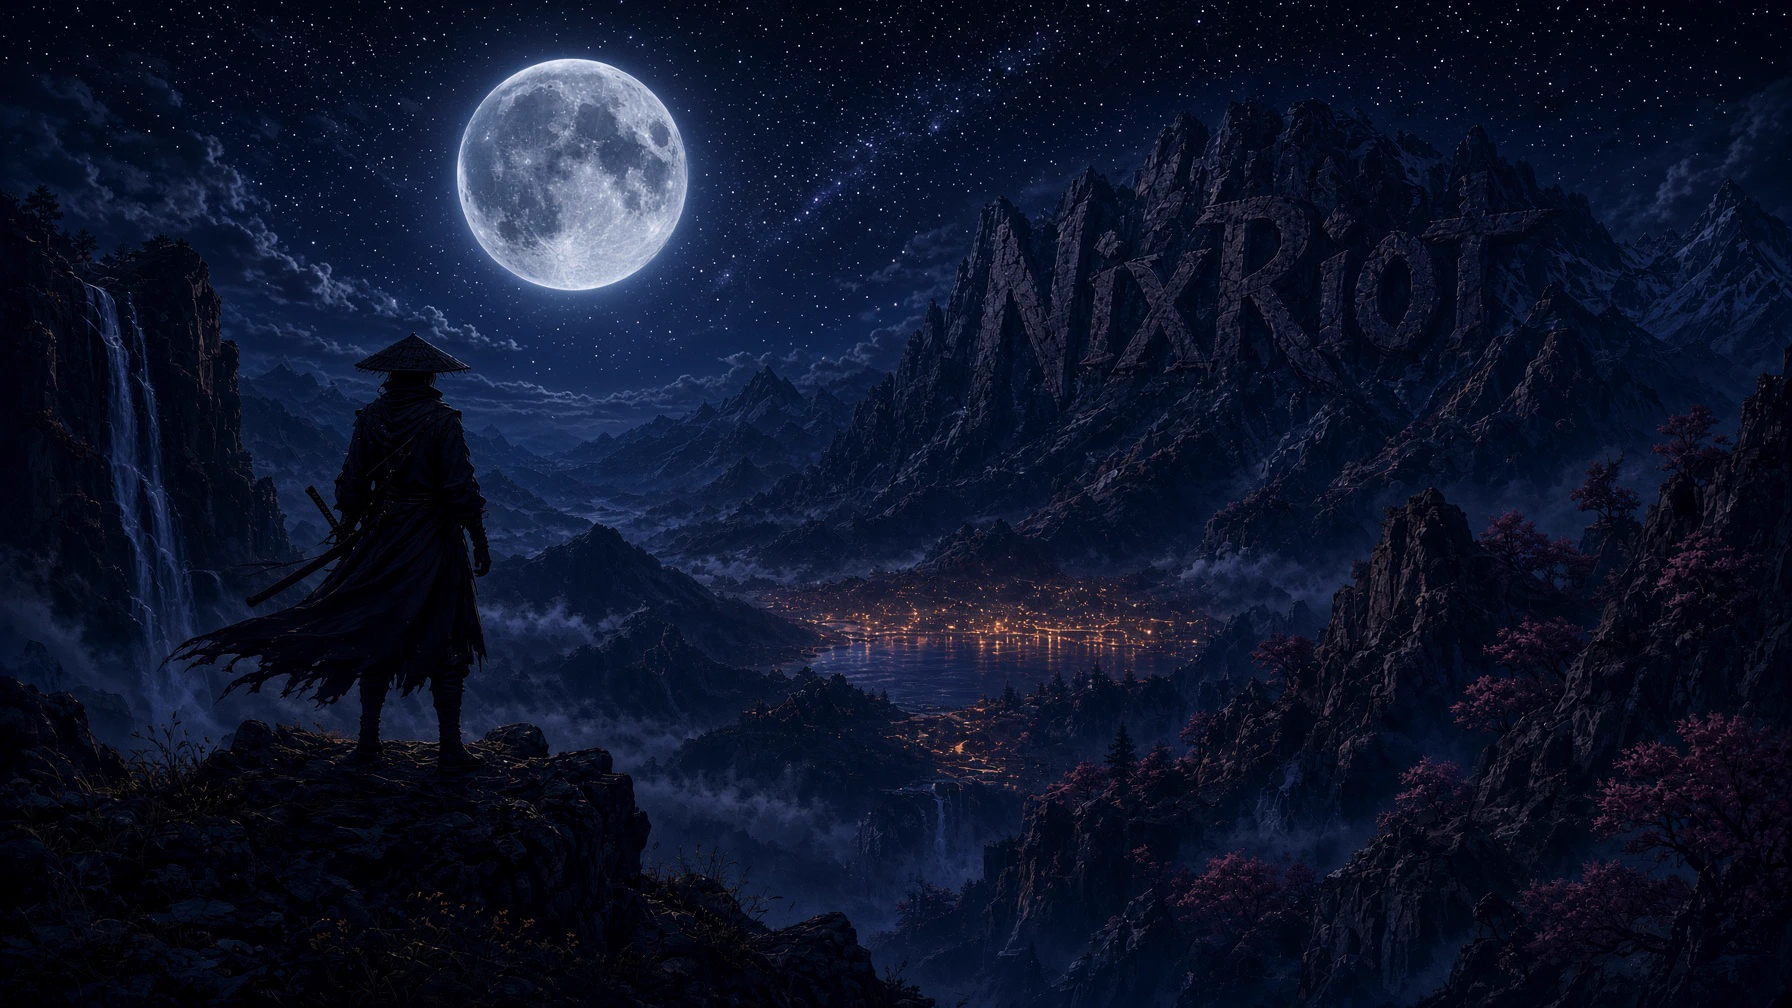
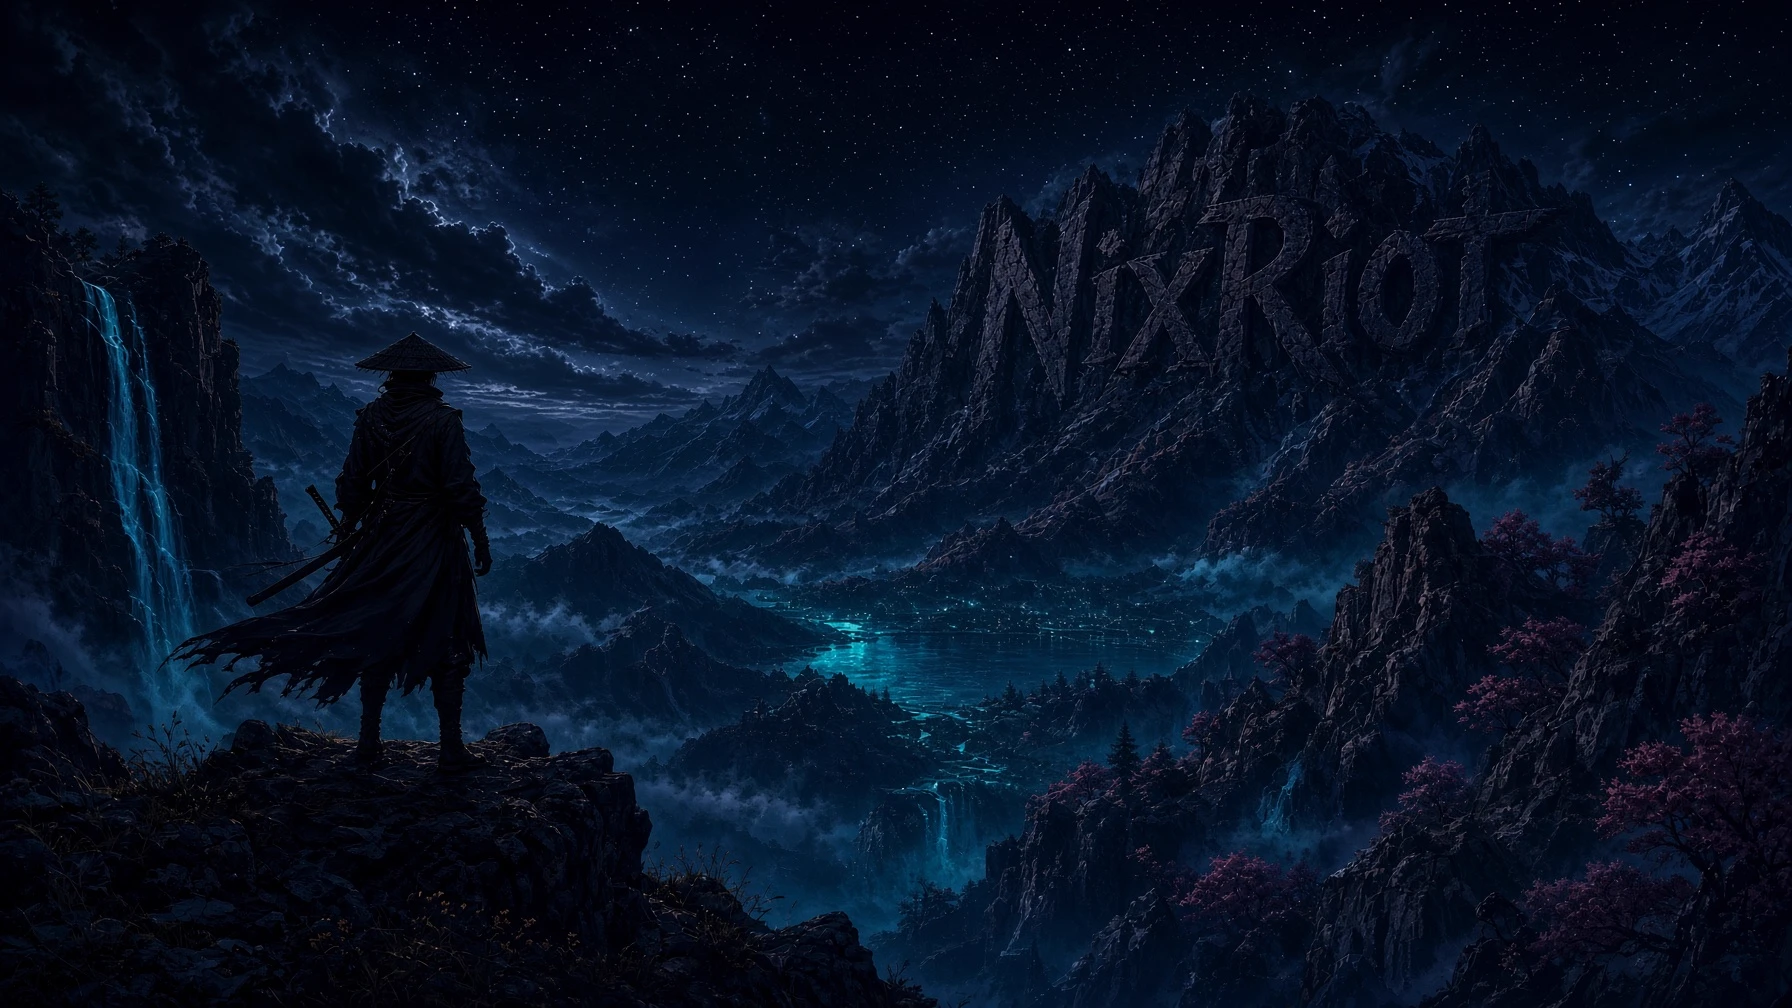
Release 1.10

diff --git a/panacea/panacea/SetSystem.qml b/panacea/panacea/SetSystem.qml
@@ -29,6 +29,12 @@ ColumnLayout {
     property real diskTotal: 0
     property real selfMb: 0
 
+    function checkedLabel() {
+        if (!page.sys.updCheckedAt) return "";
+        return page.sys.tr("checked ")
+             + new Date(page.sys.updCheckedAt).toLocaleTimeString(Qt.locale(), "HH:mm");
+    }
+
     function stepName(st) {
         return st === "download"      ? page.sys.tr("downloading")
              : st === "selfupdate"    ? page.sys.tr("updating the updater")
@@ -195,12 +201,12 @@ ColumnLayout {
                     Layout.fillWidth: true
                     text: page.sys.updBusy
                           ? page.sys.tr("Updating…") + " " + page.stepName(page.sys.updStep)
-                          : page.sys.updChecking ? page.sys.tr("Checking\\u2026")
+                          : page.sys.updChecking ? page.sys.tr("Checking…")
                           : page.sys.updateAvailable ? page.sys.tr("A new version is available")
                           : page.sys.updStatus === "current" ? page.sys.tr("You are on the latest version")
                           : page.sys.updStatus === "offline" ? page.sys.tr("Cannot reach GitHub")
                           : page.sys.updStatus === "unknown" ? page.sys.tr("Version unknown: this was not installed by the installer")
-                          : page.sys.tr("Checking\\u2026")
+                          : page.sys.tr("Checking…")
                     color: page.sys.updateAvailable ? page.sys.colOn : page.sys.colFg
                     wrapMode: Text.WordWrap
                     font { family: page.sys.fontBody; pixelSize: page.sys.fontSize - 1 }
@@ -212,6 +218,8 @@ ColumnLayout {
                         : page.sys.updateAvailable ? page.sys.updSubject
                         : "NixRiot " + (page.sys.updCurrent.length
                                         ? page.sys.updCurrent : page.sys.tr("version unknown"))
+                          + (page.sys.updStatus === "current" && page.sys.updCheckedAt
+                             ? " · " + page.checkedLabel() : "")
                     color: page.sys.updError.length ? page.sys.colCrit : page.sys.colMuted
                     wrapMode: Text.WordWrap
                     font { family: page.sys.fontBody; pixelSize: page.sys.fontSize - 4 }
@@ -252,8 +260,10 @@ ColumnLayout {
                     }
 
                     Text {
-                        text: page.sys.updChecking ? page.sys.tr("Checking\\u2026")
-                                                   : page.sys.tr("Check")
+                        text: page.sys.updChecking ? page.sys.tr("Checking…")
+                                                   : page.sys.updCheckedAt
+                                                     ? page.sys.tr("Check again")
+                                                     : page.sys.tr("Check")
                         color: page.sys.updChecking ? page.sys.colFg : page.sys.colMuted
                         font { family: page.sys.fontBody; pixelSize: page.sys.fontSize - 3 }
                     }
@@ -283,7 +293,7 @@ ColumnLayout {
 
                 Text {
                     anchors.centerIn: parent
-                    text: page.sys.updBusy ? page.sys.tr("Working…") : page.sys.tr("Refresh")
+                    text: page.sys.updBusy ? page.sys.tr("Working…") : page.sys.tr("Update")
                     color: page.sys.colFg
                     font { family: page.sys.fontBody; pixelSize: page.sys.fontSize - 3; bold: true }
                 }

diff --git a/panacea/panacea/shell.qml b/panacea/panacea/shell.qml
@@ -912,6 +912,7 @@ PanelWindow {
     property string updStep: ""
     property string updError: ""
     property string updNotified: ""
+    property real   updCheckedAt: 0
 
     readonly property bool updateAvailable: updStatus === "behind"
 
@@ -1034,6 +1035,7 @@ PanelWindow {
             else if (k === "version") root.updCurrent = v;
         }
         if (!done) return;
+        root.updCheckedAt = Date.now();
         if (root.updStatus === "behind" && root.updLatest.length
                 && root.updLatest !== root.cfg.updNotifiedVer) {
             root.updNotified = root.updLatest;
@@ -5847,6 +5849,53 @@ PanelWindow {
             }
         }
 
+        Rectangle {
+            id: updBtn
+            parent: (root.cfg.pillKeepVisible && root.expanded && !root.settingsMode) ? detachedPanel : capsule
+            anchors.top: parent.top
+            anchors.topMargin: 12
+            anchors.left: islandTabs.right
+            anchors.leftMargin: 8
+            height: 34
+            radius: 17
+            width: updRow.implicitWidth + (root.updateAvailable ? 26 : 14)
+            color: root.updateAvailable ? root.colFg
+                 : updHover.containsMouse ? Qt.rgba(1, 1, 1, 0.10) : "transparent"
+            Behavior on color { ColorAnimation { duration: root.animFast } }
+            visible: root.expanded && !root.settingsMode
+                     && (root.page === "main" || root.page === "chat" || root.page === "vpn")
+
+            Row {
+                id: updRow
+                anchors.centerIn: parent
+                spacing: 6
+                Text {
+                    anchors.verticalCenter: parent.verticalCenter
+                    text: String.fromCodePoint(root.updateAvailable ? 0xF019
+                                               : root.updStatus === "" || root.updChecking ? 0xF017
+                                               : root.updStatus === "current" ? 0xF00C : 0xF071)
+                    color: root.updateAvailable ? root.colBg
+                         : root.updStatus === "current" ? root.colMuted : root.colFg
+                    font { family: root.fontFam; pixelSize: 12 }
+                }
+                Text {
+                    anchors.verticalCenter: parent.verticalCenter
+                    visible: root.updateAvailable
+                    text: root.tr("Update")
+                    color: root.colBg
+                    font { family: root.fontBody; pixelSize: 12; bold: true }
+                }
+            }
+
+            MouseArea {
+                id: updHover
+                anchors.fill: parent
+                hoverEnabled: true
+                cursorShape: Qt.PointingHandCursor
+                onClicked: root.openSettingsAt("system")
+            }
+        }
+
         Item {
             id: pillTray
             parent: (root.cfg.pillKeepVisible && root.expanded && !root.settingsMode) ? detachedPanel : capsule
@@ -6021,7 +6070,6 @@ PanelWindow {
             }
             HeaderBtn {
                 glyph: String.fromCodePoint(0xF0425)
-                glyphColor: root.colCrit
                 onAct: root.togglePage("power")
             }
         }

diff --git a/panacea/panacea/Translations.qml b/panacea/panacea/Translations.qml
@@ -83,7 +83,7 @@ QtObject {
         "Charging, Bluetooth, screenshots, voice input": "Şarj, Bluetooth bağlantısı, ekran görüntüleri ve sesli giriş",
         "Chat": "Sohbet",
         "Check": "Kontrol et",
-        "Checking\\u2026": "Kontrol ediliyor…",
+        "Checking…": "Kontrol ediliyor…",
         "Choose VPN": "VPN seç",
         "Choose a VPN profile in the island to save it for quick connection.": "Hızlı bağlantı için adada bir VPN profili seçin.",
         "Choose a client or profile. Your selection is saved without connecting.": "Bir istemci veya profil seçin. Bağlanmadan kaydedilir.",
@@ -168,7 +168,7 @@ QtObject {
         "Do not disturb is on": "Rahatsız etmeyin modu açık",
         "Documents": "Belgeler",
         "Don't remove the drive. Left: ": "Sürücüyü çıkarmayın. Kalan: ",
-        "Don\\u0027t save": "Kaydetme",
+        "Don't save": "Kaydetme",
         "Done": "Hazır",
         "Downloads": "İndirilenler",
         "Drag the island with the mouse": "Adayı fareyle taşı",
@@ -212,7 +212,7 @@ QtObject {
         "Files over 4 GB don't fit on FAT32: ": "4 GB üzeri dosyalar FAT32'ye sığmaz: ",
         "Files: ": "Dosyalar: ",
         "Finish": "Bitir",
-        "Float \\u0026 centre": "Ortada yüzen pencere",
+        "Float & centre": "Ortada yüzen pencere",
         "Floating overlay mode": "Yüzen katman modu",
         "Floating window": "Yüzen pencere",
         "Focus by direction": "Yöne göre odakla",
@@ -398,7 +398,7 @@ QtObject {
         "Panacea has been updated": "Panacea güncellendi",
         "Panel layout": "Panel düzeni",
         "Password": "Parola",
-        "Password for \\u00ab": "« için parola",
+        "Password for «": "« için parola",
         "Password manager": "Parola yöneticisi",
         "Passwords": "Parolalar",
         "Paste": "Yapıştır",

diff --git a/panacea/panacea/SetKeys.qml b/panacea/panacea/SetKeys.qml
@@ -472,7 +472,7 @@ ColumnLayout {
             BindRow { bindId: "closeWindow"; label: page.sys.tr("Close window") }
             BindRow { bindId: "fullscreen";  label: page.sys.tr("Fullscreen") }
             BindRow { bindId: "floatToggle"; label: page.sys.tr("Floating window") }
-            BindRow { bindId: "floatCenter"; label: page.sys.tr("Float \\u0026 centre") }
+            BindRow { bindId: "floatCenter"; label: page.sys.tr("Float & centre") }
             BindRow { bindId: "toggleSplit"; label: page.sys.tr("Toggle split") }
             BindRow { bindId: "closeMouse"; label: page.sys.tr("Close with middle click"); manual: true }
             BindRow { bindId: "dragWindow"; label: page.sys.tr("Drag window"); manual: true }

diff --git a/panacea/panacea/ControlsView.qml b/panacea/panacea/ControlsView.qml
@@ -1989,7 +1989,7 @@ Item {
                     TextField {
                         id: pwField
                         Layout.fillWidth: true
-                        placeholderText: view.sys.tr("Password for \\u00ab") + wifiPage.passwordFor + "»"
+                        placeholderText: view.sys.tr("Password for «") + wifiPage.passwordFor + "»"
                         echoMode: TextInput.Password
                         color: view.sys.colFg
                         placeholderTextColor: view.sys.colMuted

diff --git a/panacea/panacea/VaultSaveView.qml b/panacea/panacea/VaultSaveView.qml
@@ -184,7 +184,7 @@ FocusScope {
                 color: noMa.containsMouse ? Qt.rgba(1, 1, 1, 0.13) : Qt.rgba(1, 1, 1, 0.06)
                 Text {
                     anchors.centerIn: parent
-                    text: view.sys.tr("Don\\u0027t save")
+                    text: view.sys.tr("Don't save")
                     color: view.sys.colFg
                     font { family: view.sys.fontFam; pixelSize: view.sys.fontSize - 2 }
                 }

diff --git a/panacea/panacea/VaultView.qml b/panacea/panacea/VaultView.qml
@@ -172,7 +172,7 @@ FocusScope {
 
                 Text {
                     visible: view.sys.vaultBusy
-                    text: view.sys.tr("Checking\\u2026")
+                    text: view.sys.tr("Checking…")
                     color: view.sys.colMuted
                     font { family: view.sys.fontFam; pixelSize: view.sys.fontSize - 4 }
                 }

diff --git a/README.md b/README.md
@@ -2,8 +2,8 @@
 
 ![NixRiot](docs/img/banner.webp)
 
-![Status](https://img.shields.io/badge/status-early_release-9a2eef?labelColor=1b2b34)
-![Version](https://img.shields.io/badge/version-1.9-9a2eef?labelColor=1b2b34)
+![Status](https://img.shields.io/badge/status-release-9a2eef?labelColor=1b2b34)
+![Version](https://img.shields.io/badge/version-1.10-9a2eef?labelColor=1b2b34)
 ![Platform](https://img.shields.io/badge/platform-NixOS-9a2eef?logo=nixos&logoColor=white&labelColor=1b2b34)
 ![Shell](https://img.shields.io/badge/shell-Hyprland-9a2eef?logo=hyprland&logoColor=9a2eef&labelColor=1b2b34)
 ![UI](https://img.shields.io/badge/UI-Quickshell-9a2eef?labelColor=1b2b34)
@@ -19,12 +19,13 @@
 
 ## Status of NixRiot
 
-**Early release.** It installs over the network with LUKS and boots to the
-NixRiot desktop: the pill, the launcher, its settings, the terminal. It is
-running on real hardware now, a Bluetooth keyboard included.
+**Released.** It installs over the network with LUKS and boots to the NixRiot
+desktop: the pill, the launcher, its settings, the terminal. It runs on real
+hardware, with Bluetooth input, the lock screen, the password vault, the media
+capsule and the night light all in use.
 
-Still unverified: the password vault, the media keys, and the pill's media
-capsule. The hardware notes below are what has actually been checked.
+Still unverified: the media keys, the clamshell lid switch, and a full
+fifteen-minute idle run. The hardware notes below are what has been checked.
 
 ![The NixRiot desktop: the pill, its settings pages, and a terminal](docs/img/desktop-demo.gif)
 
@@ -120,7 +121,7 @@ NixRiot ships no wallet files and no secrets. You own those.
   default, with the GUI in the app launcher and the `mullvad` command line.
 - **Security**: firewall, SSH hardening, sysctl hardening, MAC randomization,
   `restic` and `rclone` for backups.
-- The **NixRiot wallpaper set** (29 WebP images, `00.webp` through `28.webp`).
+- The **NixRiot wallpaper set** (33 WebP images, `00.webp` through `32.webp`).
 - A **night light** for the screen, off until you switch it on (`SUPER + N`).
 - Full-disk encryption (LUKS2) on the root volume, chosen during install.
 
@@ -402,8 +403,8 @@ off). `SUPER + /` lists every current binding.
 
 ## Wallpapers
 
-The NixRiot set (29 WebP images, `00.webp` through `28.webp`) ships in
-`panacea/hypr/wallpaper/`, default `27.webp`. Change the wallpaper from
+The NixRiot set (33 WebP images, `00.webp` through `32.webp`) ships in
+`panacea/hypr/wallpaper/`, default `22.webp`. Change the wallpaper from
 Settings > Appearance > Wallpapers, or with `SUPER + SHIFT + T` or
 `SUPER + SHIFT + D`. The manifest is
 `panacea/hypr/wallpaper/WALLPAPERS.md`.
@@ -447,6 +448,7 @@ next to your username. The file holds both, and an update preserves it:
 ```nix
 {
   nixriotUser = "riot";
+  nixriot.hostName = "riot";
   nixriot = {
     crypto.monero = true;
     crypto.bitcoin = true;
@@ -470,15 +472,18 @@ Mullvad VPN is installed and enabled by default: the daemon starts at boot and
 the desktop app is in the app launcher. The `mullvad` command line works too:
 
 ```sh
-sudo mullvad account login <your-16-digit-account>
+sudo mullvad account login
 sudo mullvad relay set location us nyc
 sudo mullvad connect
 mullvad status
 ```
 
+`mullvad account login` opens a prompt; paste the 16-digit account number
+there. It is not accepted as a command-line argument.
+
 The pill's VPN panel is a status readout: it reports whether a tunnel is up (it
-detects Mullvad's `wg0-mullvad` interface), but connecting and picking a server
-happen in the app.
+detects Mullvad's `wg0-mullvad` interface), and the header chip shows the exit
+city when connected. Connecting and picking a server happen in the app.
 
 For a WireGuard config (the OpenRiot workflow), set
 `nixriot.wireguard.enable = true;` in
@@ -531,8 +536,28 @@ sudo nixriot-update apply
 ```
 
 That clones the project from GitHub, replaces `/etc/nixriot` with it, and
-rebuilds. A timer runs `nixriot-update check` every four hours and writes the
-result to `/var/lib/nixriot/status.json`, which is what the pill reads.
+rebuilds. A timer runs `nixriot-update check` every four hours; when it finds a
+newer version, the pill shows an **Update** button beside the VPN indicator. The
+System page shows the same state, with a Check button that asks GitHub directly.
+
+![The Update button in the pill, next to the VPN indicator](docs/img/update-pill.webp)
+
+![Settings, System page, with the update ready to install](docs/img/update-settings.webp)
+
+Before switching, the updater copies the current tree to
+`/var/lib/nixriot/previous` and builds the new one with `nixos-rebuild build`.
+If `local.nix` is missing its user or the build fails, it restores the previous
+tree and stops. The previous generation stays in the boot menu, so
+`sudo nixos-rebuild switch --rollback` is always available.
+
+**Upgrading from 1.9 or older:** the updater in those releases could not find
+`nixos-rebuild` and left `/etc/nixriot` unreadable. Run this once, which also
+installs the fixed updater:
+
+```sh
+sudo env PATH=/run/current-system/sw/bin:$PATH nixriot-update apply
+```
+
 
 To rebuild without fetching anything, run the same `rebuild` alias:
 
@@ -597,7 +622,7 @@ attach the log.
   That prints a URL on stdout; put it in the issue.
 
 - **The time zone cannot be changed from Panacea.** The pill runs
-  `pkexec timedatectl set-timezone`. On a generation that still manages
+  `timedatectl set-timezone` directly. On a generation that still manages
   `/etc/localtime`, that path points into the read-only Nix store and
   `timedatectl` fails with `Read-only file system`. NixRiot sets
   `time.timeZone = null` so `timedatectl` owns the file, and a polkit rule

diff --git a/panacea/hypr/wallpaper/WALLPAPERS.md b/panacea/hypr/wallpaper/WALLPAPERS.md
@@ -1,7 +1,7 @@
 # NixRiot Wallpapers
 
-The set is 29 WebP images, `00.webp` through `28.webp`, generated for NixRiot.
-They are the project's own work and carry no third-party terms.
+The set is 33 WebP images, `00.webp` through `32.webp`. The first 27 were
+generated for NixRiot; the later additions are user-provided.
 
 This set replaced the earlier OpenRiot background collection, which was
 BSD-3-Clause and borrowed. That collection is no longer shipped.
@@ -9,10 +9,14 @@ BSD-3-Clause and borrowed. That collection is no longer shipped.
 | File | Source | License |
 |---|---|---|
 | `00.webp` through `26.webp` | Generated for NixRiot | NixRiot project, no third-party license |
-| `27.webp` | User-provided (`~/Downloads/25.jpg`) | NixRiot project, license to confirm |
+| `27.webp` | User-provided (`~/Downloads/27.jpg`, dark) | NixRiot project, license to confirm |
 | `28.webp` | User-provided (`~/Downloads/28.jpg`) | NixRiot project, license to confirm |
+| `29.webp` | User-provided (`~/Downloads/grok-image-22bfd5b6`) | NixRiot project, license to confirm |
+| `30.webp` | User-provided (`~/Downloads/grok-image-6344b729`) | NixRiot project, license to confirm |
+| `31.webp` | User-provided (`~/Downloads/grok-image-84614c04`) | NixRiot project, license to confirm |
+| `32.webp` | User-provided (`~/Downloads/grok-image-fe15e1d4`) | NixRiot project, license to confirm |
 
-The default is `27.webp`, referenced by `hypr/wallpaper.conf` and
+The default is `22.webp`, referenced by `hypr/wallpaper.conf` and
 `hypr/hyprpaper.conf`.
 
 To add an image, place it here and add a row above with its author, source,

diff --git a/panacea/LOCAL-CHANGES.md b/panacea/LOCAL-CHANGES.md
@@ -28,9 +28,9 @@ revision has been reviewed, so `UPSTREAM` is the reviewed baseline.
 ## Changes made
 
 1. `hypr/wallpaper/` is replaced with the NixRiot wallpaper set, `00.webp`
-   through `28.webp`, generated for the project.
+   through `32.webp`, generated for the project.
 2. `hypr/wallpaper.conf` and `hypr/hyprpaper.conf` point at
-   `~/.config/hypr/wallpaper/27.webp`.
+   `~/.config/hypr/wallpaper/22.webp`.
 3. Upstream `assets/logo*.png` moved to `panacea/assets/` so the shell
    finds them after the config tree is copied.
 4. `hypr/scripts/switch_theme.sh` fallback now includes `*.webp`.
@@ -156,7 +156,7 @@ revision has been reviewed, so `UPSTREAM` is the reviewed baseline.
     `monitor.added` and `monitor.removed` re-evaluate the state, so plugging in
     an external display with the lid already shut works without a manual
     `hyprctl` command.
-27. The default wallpaper is `27.webp`. The checked-in `wallpaper.conf` and
+27. The default wallpaper is `22.webp`. The checked-in `wallpaper.conf` and
     `hyprpaper.conf` said `16.webp`, so the first launch depended on the restore
     script winning its race with hyprpaper. `home/panacea.nix` now seeds both
     state files from those defaults with `~` expanded when they are absent; the

diff --git a/CHANGELOG.md b/CHANGELOG.md
@@ -11,6 +11,18 @@ nothing else, so the wording here is exactly what a person reads on the pill's
 
 ## Unreleased
 
+## 1.10
+
+- The pill shows an Update button when a release is available. The System
+  page's Check asks GitHub directly and reports an offline network instead of
+  showing stale data.
+- The updater checks that your user is still configured, builds the new system
+  before switching, keeps a copy of the previous tree, and prints the rollback
+  command if the switch fails.
+- Five more wallpapers; the default is `22.webp`.
+- Labels that showed a literal `\u2026` or `\u0026` now render as characters.
+- The keyboard layout badge appears only when more than one layout is set.
+
 ## 1.9
 
 - Thunar is gone. Panacea Files is the only file manager, and folders open
